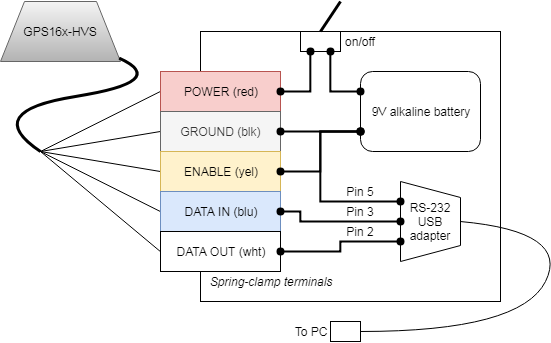
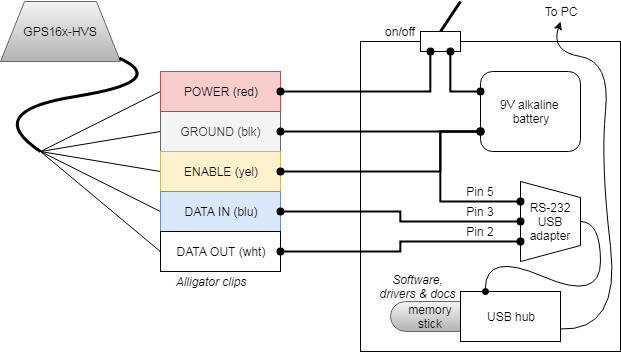
Post testing updates

Changed region(s): [[0.0, 0.0, 1.0, 1.0], [0.833, 0.2041, 0.8639, 0.2332]]

diff --git a/readme.md b/readme.md
@@ -8,15 +8,54 @@ this with a portable computer running Windows&#8482; to upload new firmware.
 
 ![Hardware diagram](block-diagram.png)
 
+## Usage
 
+1. With programmer **off**, connect alligator clips to corresponding GPS wires,
+   then turn unit on:
+    * Red - power in
+    * Black - power ground
+    * Blue - data in
+    * White - data out
+    * Yellow - enable
+2. Plug USB cable into field computer
+    * Install the usb-serial adapter driver (may not be necessary): `CDM21228_Setup.zip`
+    * Install the new firmware package: `GPS16x_420.exe`
+3. Launch the sensor configuration tool: `SNSRXCFG_330.exe`
+    * Choose **GPS 16x** when prompted
+    * Setup the serial port under *Comm* &rarr; *Setup*:
+        * Serial Port: *look up correct port under Computer > Manage > Device
+          Manager > Ports (COM & LPT)*
+        * Baud: leave as *Auto* or manually specify *38400*
+    * Connect to the GPS using *Comm* &rarr; *Connect*
+4. Initiate the firmware upgrade using *Config* &rarr; *Update Software (F12)*
+    * Follow the instructions provided by the prompts
+    * Select the region file provided with the firmware package
+    * Select the updater program provided with the firmware package
+    * Wait
+    * Once the upgrade completes, restart the sensor config program
+      > *Failure to restart the sensor config program may result in inability to
+      > connect to the GPS unit.*
+5. Connect using the sensor config tool and verify settings match intended values.
 
 
 ## References
+
+* Campbell Scientific. *GPS16X-HVS GPS Receiver Instruction Manual.* Rev Oct 2017.
+  Retrieved [2019-04-05](http://web.archive.org/web/20190406023559/https://s.campbellsci.com/documents/us/manuals/gps16x-hvs.pdf).
+  Online: <https://s.campbellsci.com/documents/us/manuals/gps16x-hvs.pdf>.
+
+* Future Technology Devices International Ltd. *D2XX Direct Driver Setup Executable.* 
+  Version 2.12.28. Retrieved [2019-04-05](http://web.archive.org/web/20190406023750/https://www.ftdichip.com/Drivers/CDM/CDM21228_Setup.zip).
+  Online: <https://www.ftdichip.com/Drivers/D2XX.htm>
 
 * Garmin International. *GPS 16x Technical Specifications.* Rev October 2011.
   Retrieved [2019-04-05](http://web.archive.org/web/20190405200736/http://static.garmin.com/pumac/GPS_16x_tech_specs.pdf).
   Online: <http://static.garmin.com/pumac/GPS_16x_tech_specs.pdf>.
 
-* Garmin International. *GPS 16x Updates & Downloads.* Retrieved
-  [2019-04-05](http://web.archive.org/web/20190405200904/https://www8.garmin.com/support/download_details.jsp?id=4061).
+* Garmin International. *GPS 16x software version 4.20.* Retrieved
+  [2019-04-05](http://web.archive.org/web/20190406024209/http://download.garmin.com/software/GPS16x_420.exe).
   Online: <https://www8.garmin.com/support/download_details.jsp?id=4061>.
+
+* Garmin International. *SNSRXCFG software version 3.30.* Retrieved
+  [2019-04-05](http://web.archive.org/web/20190406024309/http://download.garmin.com/software/SNSRXCFG_330.exe).
+  Online: <https://www8.garmin.com/support/download_details.jsp?id=4053>.
